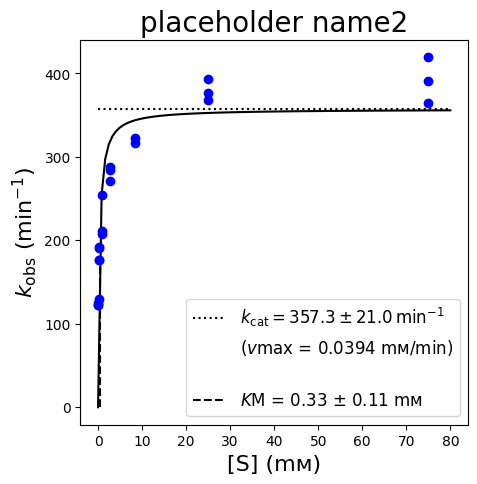
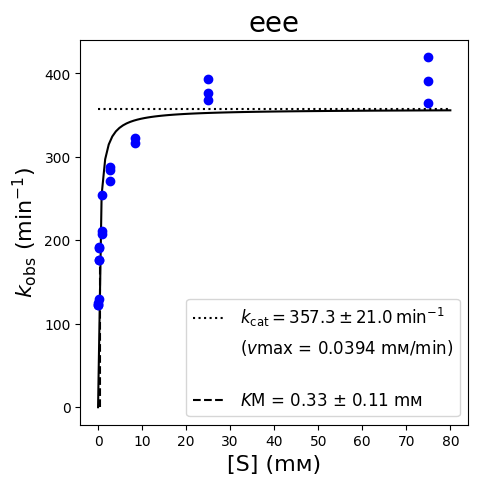
added variant name to graph generation

Changed region(s): [[0.2935, 0.0, 0.8512, 0.093]]

diff --git a/src/pages/graph-test/index.tsx b/src/pages/graph-test/index.tsx
@@ -1,16 +1,52 @@
-import React, { useState } from 'react';
+import React, { useState, ChangeEvent } from 'react';
 import axios from 'axios';
+import { fontString } from 'chart.js/helpers';
 
 function GraphImage() {
-  const [selectedFile, setSelectedFile] = useState(null);
 
-  const handleFileChange = (event) => {
-    setSelectedFile(event.target.files[0]);
+  const headingStyle = {
+    fontFamily: 'Vetrena MF Thin, sans-serif', // Replace with your desired font family
+    // You can add more styles as needed
+    fontSize: '24px', // Replace with your desired font size
+    fontWeight: 'bold', // Replace with your desired font weight
+    color: '#333', // Replace with your desired text color
+  };
+
+  const textBlockStyle = {
+    fontFamily: 'Vetrena MF Thin, sans-serif', // Replace with your desired font family
+    fontWeight: 'normal', // Replace with your desired font weight
+    color: '#333', // Replace with your desired text color
+    /* Add more styles as needed */
+  };
+
+
+
+  const [selectedFile, setSelectedFile] = useState<File|null>(null);
+  const [variantName, setVariantName] = useState<String>();
+  const [renderStatus, setRenderStatus] = useState<boolean>(false);
+  
+  const handleVariantNameChange = (event: ChangeEvent<HTMLInputElement>) => {
+    const variantName = event.target.value;
+    if (variantName) {
+      setVariantName(variantName);
+    }
+  };
+
+  const handleFileChange = (event: ChangeEvent<HTMLInputElement>) => {
+    const file = event.target.files?.[0];
+    if (file) {
+      setSelectedFile(file);
+    }
   };
 
   const handleSubmit = async () => {
-    const formData = new FormData();
+    setRenderStatus(true)
+
+    const formData:any = new FormData();
     formData.append('file', selectedFile);
+    formData.append('variant-name', variantName)
+
+    console.log(formData);
 
     try {
       const response = await axios.post('http://127.0.0.1:5000/plotit', formData, {
@@ -23,6 +59,7 @@ function GraphImage() {
       const imageBlob = new Blob([response.data], { type: 'image/png' });
       const imageUrl = URL.createObjectURL(imageBlob);
       console.log(imageUrl); 
+
       document.getElementById('graphImage').src = imageUrl;
     } catch (error) {
       console.error('Error uploading file:', error);
@@ -31,11 +68,20 @@ function GraphImage() {
 
   return (
     <div>
-      <h2>test graph</h2>
+      <h2 style = {headingStyle}>Data Visualization</h2>
       <input type="file" onChange={handleFileChange} />
-      <button onClick={handleSubmit}>Upload and Plot</button>
-      <img id="graphImage" alt="Graph will be displayed here after uploading."/>
-    </div>
+      <text style = {textBlockStyle}> Enter Variant Name: </text>
+      < input type = "text" onChange = {handleVariantNameChange}></input>
+        <div style = {{position : 'relative', top: '20px'}}><button onClick={handleSubmit}>  Upload and Plot</button>
+        </div>
+        <div style = {{position : 'relative', top: '30px'}}>
+          {renderStatus && <img id="graphImage" alt="Graph will be displayed here after uploading."/>}
+        </div>
+        
+      </div>
+        
+      
+
   );
 }
 

diff --git a/src/pages/graph-test/style.css b/src/pages/graph-test/style.css
@@ -1,0 +1,4 @@
+#button {
+    width:200px;
+    margin-top: auto;
+}

diff --git a/flask/graph-gen.py b/flask/graph-gen.py
@@ -15,14 +15,6 @@ CORS(app)
 
 
 
-
-
-
-
-
-
-
-
 # Turn debug mode on or off
 debug_mode = False
 
@@ -47,10 +39,15 @@ def plotit():
             log_file.write("\nSTART LOG\n")
 
 
-
-
+    print("DEBUG")
+    variant_name = request.form['variant-name']
+    
     if 'file' not in request.files:
         return 'No file part', 400
+    
+    # if 'variant-name' not in request.data:
+    #     return 'no variant-name', 400
+    
     file = request.files['file']
     if file.filename == '':
         return 'No selected file', 400
@@ -278,7 +275,7 @@ def plotit():
 
         plot(c_substrate, kobs, 'bo')  # Plot raw data with blue circles.
 
-        title('placeholder name2', fontsize='20')
+        title(variant_name, fontsize='20')
         ylabel(r'$\mathit{k}_{\mathrm{obs}}$ (min$^{-1}$)', fontsize='16')
         xlabel('[S] (mᴍ)', fontsize='16')
         legend(fontsize='12', loc='lower right')
@@ -293,7 +290,7 @@ def plotit():
 
         plot(c_substrate, kobs, "bo")  # Plot raw data with blue circles.
 
-        title('placeholder name2' + ' (linear curve fit)', fontsize='20')
+        title(variant_name + ' (linear curve fit)', fontsize='20')
         ylabel(r'$\mathit{k}_{\mathrm{obs}}$ (min$^{-1}$)', fontsize='16')
         xlabel('[S] (mᴍ)', fontsize='16')
         legend(fontsize='12')
